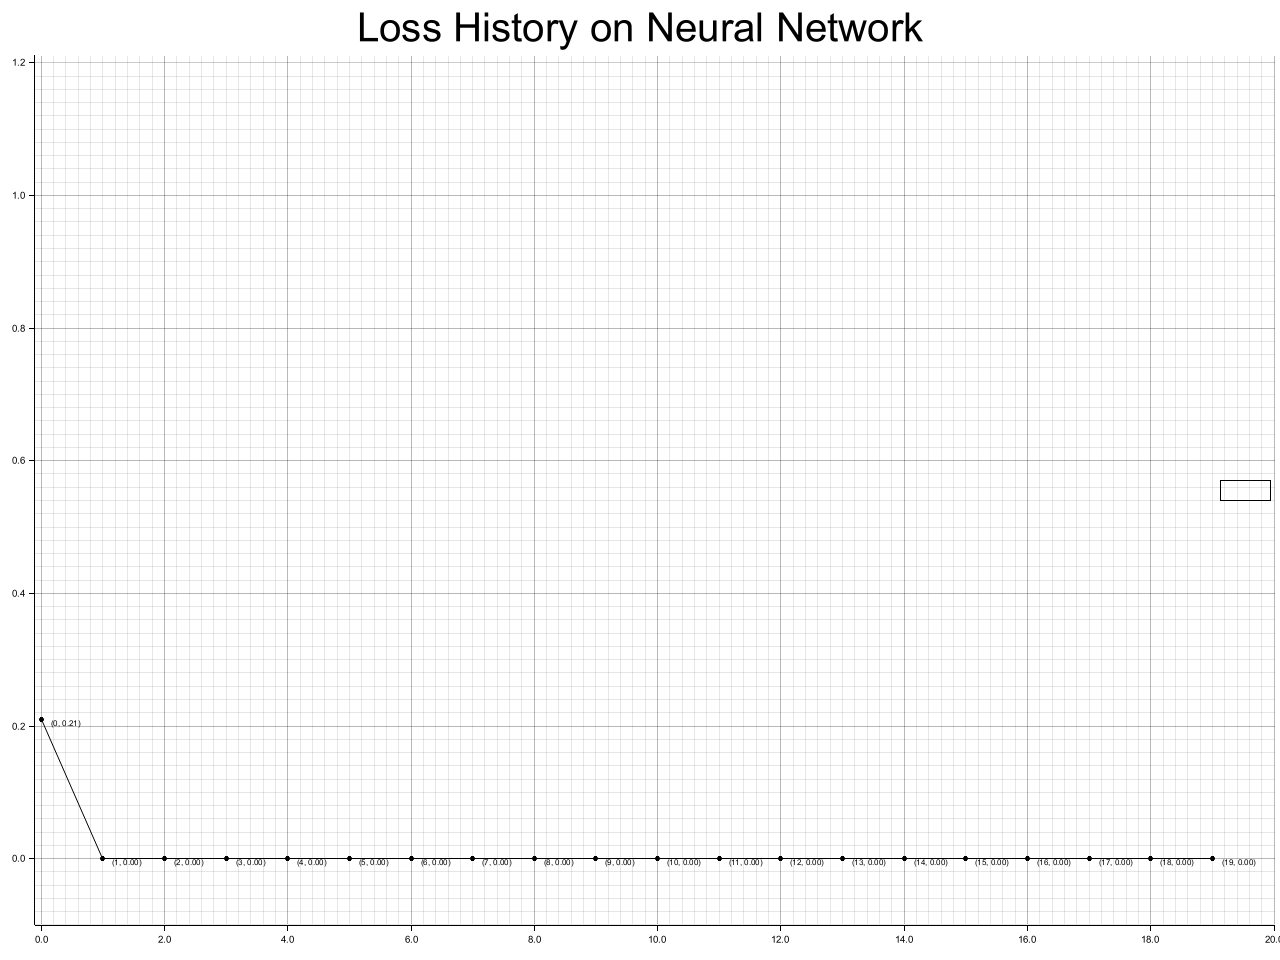
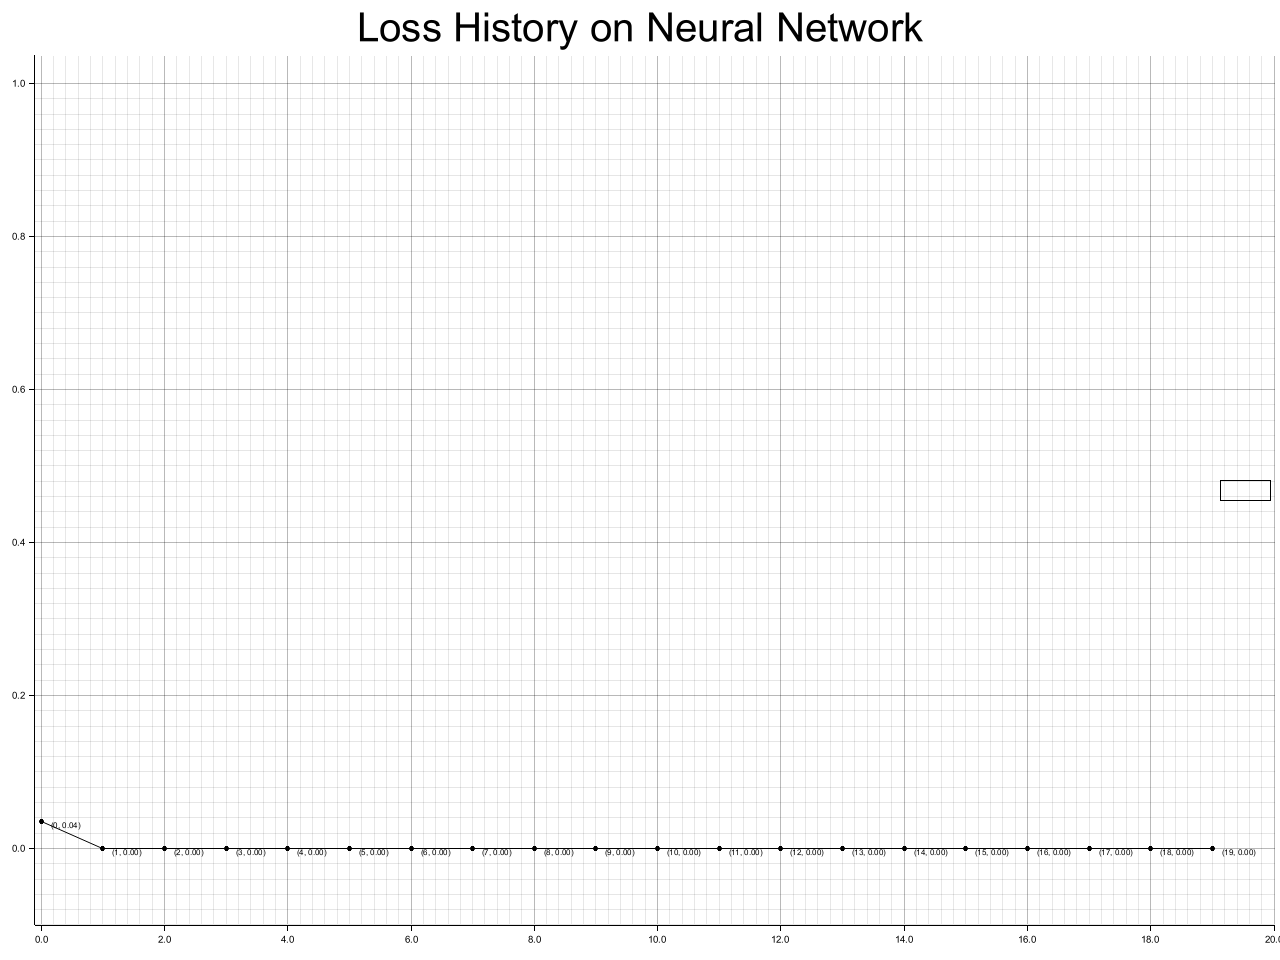
Implemented adam optimizer

diff --git a/src/network/layer/dense.rs b/src/network/layer/dense.rs
@@ -19,7 +19,12 @@ pub struct Dense{
     beta1: f32,
     beta2: f32,
     epsilon: f32,
-    time: usize
+    time: usize,
+
+    m_weights: Matrix,
+    v_weights: Matrix,
+    m_biases: Matrix,
+    v_biases: Matrix
 }
 
 impl Dense{
@@ -28,6 +33,13 @@ impl Dense{
             loss: 1.0,
             weights: Matrix::new_random(layer_cols_before, layers),
             biases: Matrix::new_random(layer_cols_before, 1),
+
+            m_weights: Matrix::new_empty(layer_cols_before, layers),
+            v_weights: Matrix::new_empty(layer_cols_before, layers),
+
+            m_biases: Matrix::new_empty(layer_cols_before, 1),
+            v_biases: Matrix::new_empty(layer_cols_before, 1),
+
             data: Matrix::new_random(0, 0),
             activation_fn: activation,
             learning_rate,
@@ -38,6 +50,7 @@ impl Dense{
         };
         (res.beta1, res.beta2) = res.get_betas();
         res.epsilon = res.get_epsilon();
+
         res
     }
     fn get_betas(&self) -> (f32, f32){
@@ -67,7 +80,7 @@ impl Layer for Dense{
     fn backward(&mut self, gradients: Box<dyn Input>, errors: Box<dyn Input>, data: Box<dyn Input>) -> Box<dyn Input> {
         let mut gradients_mat = Matrix::from(gradients.to_param_2d());
         let mut errors_mat = Matrix::from(errors.to_param_2d());
-        let mut data_mat = Matrix::from(data.to_param_2d());
+        let data_mat = Matrix::from(data.to_param_2d());
 
         gradients_mat = gradients_mat.dot_multiply(&errors_mat) * self.learning_rate;
         errors_mat = self.weights.clone().transpose() * &errors_mat;
@@ -79,9 +92,27 @@ impl Layer for Dense{
 
         self.loss = self.loss / errors_mat.to_param().len() as f32;
 
-        //println!("{}x{} {}x{}", self.weights.rows, self.weights.columns, data.to_param_2d()[0].len(), data.to_param_2d().len());
-        self.biases = self.biases.clone() + &gradients_mat.clone();
-        self.weights = self.weights.clone() + &(gradients_mat.clone() * (&data_mat.transpose()));
+        self.time += 1;
+
+        let weight_gradient = gradients_mat.clone() * &(data_mat.clone().transpose());
+
+        self.m_weights = self.m_weights.clone() * self.beta1 + &(weight_gradient.clone() * (1.0 - self.beta1));
+        self.v_weights = self.v_weights.clone() * self.beta2 + &((weight_gradient^2) * (1.0 - self.beta2));
+
+        self.m_biases = self.m_biases.clone() * self.beta1 + &(gradients_mat.clone() * (1.0 - self.beta1));
+        self.v_biases = self.v_biases.clone() * self.beta2 + &((gradients_mat.clone()^2) * (1.0 - self.beta2));
+
+        let m_weights_hat = self.m_weights.clone() / (1.0 - self.beta1.powi(self.time as i32));
+        let v_weights_hat = self.v_weights.clone() / (1.0 - self.beta2.powi(self.time as i32));
+
+        let m_bias_hat = self.m_biases.clone() / (1.0 - self.beta1.powi(self.time as i32));
+        let v_bias_hat = self.v_biases.clone() / (1.0 - self.beta2.powi(self.time as i32));
+
+        let weights_update = m_weights_hat.clone() / &(v_weights_hat.sqrt() + self.epsilon);
+        let bias_update = m_bias_hat.clone() / &(v_bias_hat.sqrt() + self.epsilon);
+
+        self.biases = self.biases.clone() + &bias_update;
+        self.weights = self.weights.clone() + &weights_update;
 
         Box::new(errors_mat)
     }

diff --git a/src/network/network.rs b/src/network/network.rs
@@ -146,7 +146,7 @@ impl Network{
     ///compared to what is actually derived during back propegation
     ///* `epochs` - How many epochs you want your model training for
     ///
-    pub fn fit(&mut self, train_in: Vec<Vec<f32>>, train_out: Vec<Vec<f32>>, epochs: usize){
+    pub fn fit(&mut self, train_in: &Vec<Vec<f32>>, train_out: &Vec<Vec<f32>>, epochs: usize){
         let mut input_batch: Box<dyn Input>;
         let mut output_batch: Box<dyn Input>;
 
@@ -179,10 +179,7 @@ impl Network{
             
         }
         self.loss = self.loss_train[self.loss_train.len()-1];
-        println!("Trained to a loss of {:.2}%", self.loss * 100.0);
-        for i in 0..self.layers.len()-1{
-            println!("Error on layer {}: +/- {:.2}", i+1, self.layers[i].get_loss());
-        }
+        
     }
 
     fn get_batch(&self, inputs: &Vec<Vec<f32>>, idx: usize) -> Box<dyn Input> {
@@ -213,44 +210,18 @@ impl Network{
         let net: Network = from_str(&buffer).expect("Json was not formatted well >:(");
         net
     }
+
+    pub fn fit_to_loss(&mut self, train_in: Vec<Vec<f32>>, train_out: Vec<Vec<f32>>, desired_loss: f32, steps_per: usize) -> usize{
+        let mut epochs_total = 0;
+        while self.loss > desired_loss{
+            self.fit(&train_in, &train_out, steps_per);
+            epochs_total += steps_per;
+            
+        }
+        println!("Trained to a loss of {:.2}%", self.loss * 100.0);
+        for i in 0..self.layers.len()-1{
+            println!("Error on layer {}: +/- {:.2}", i+1, self.layers[i].get_loss());
+        }
+        epochs_total
+    }
 }
-
-/*#[typetag::serde]
-impl Layer for Network{
-
-    fn forward(&mut self,inputs: &Box<dyn Input>) -> Box<dyn Input> {
-        Box::new(self.feed_forward(inputs))
-    }
-
-    fn backward(&mut self,inputs: &Matrix,gradients: &Matrix,errors: &Matrix,layer_prev: &Matrix,layer_prev_bias: &Matrix) -> (Matrix,Matrix,Matrix,Matrix) {
-        self.implicit_back_propegation(inputs.clone(), gradients.clone(), errors.clone())
-    }
-
-    fn shape(&self) -> (usize,usize,usize) {
-        self.layers[0].shape()
-    }
-    fn set_weights(&mut self,new_weights:Matrix) {
-        self.layers[0].set_weights(new_weights)
-    }
-    fn set_bias(&mut self,new_bias:Matrix) {
-        self.layers[0].set_bias(new_bias)
-    }
-    fn get_cols(&self) -> usize {
-        self.layers[self.layers.len() - 1].get_cols()
-    }
-    fn get_rows(&self) -> usize {
-        self.layers[self.layers.len() - 1].get_rows()
-    }
-    fn get_bias(&self) -> Matrix {
-        self.layers[0].get_bias()
-    }
-    fn get_loss(&self) -> f32 {
-        self.loss
-    }
-    fn get_weights(&self) -> Matrix {
-        self.layers[0].get_weights()
-    }
-    fn get_activation(&self) -> Option<super::activations::Activations> {
-        self.layers[0].get_activation()
-    }
-}*/

diff --git a/src/network/matrix.rs b/src/network/matrix.rs
@@ -80,6 +80,19 @@ impl ops::Mul<f32> for Matrix {
     }
 }
 
+impl ops::BitXor<i32> for Matrix{
+    type Output = Matrix;
+    fn bitxor(self, rhs: i32) -> Self::Output {
+        let mut res: Matrix = Matrix::new_empty(self.rows, self.columns);
+        for i in 0..self.rows{
+            for j in 0..self.columns{
+                res.data[i][j] = self.data[i][j].powi(rhs);
+            }
+        }
+        res
+    }
+}
+
 impl ops::Div<f32> for Matrix {
     type Output = Matrix;
     fn div(self, rhs: f32) -> Self::Output {
@@ -93,9 +106,22 @@ impl ops::Div<f32> for Matrix {
     }
 }
 
-impl ops::Div<Matrix> for &Matrix{
+impl ops::Add<f32> for Matrix {
     type Output = Matrix;
-    fn div(self, rhs: Matrix) -> Self::Output {
+    fn add(self, rhs: f32) -> Self::Output {
+        let mut res: Matrix = Matrix::new_empty(self.rows, self.columns);
+        for i in 0..self.rows{
+            for j in 0..self.columns{
+                res.data[i][j] = self.data[i][j] + rhs;
+            }
+        }
+        res
+    }
+}
+
+impl ops::Div<&Matrix> for Matrix{
+    type Output = Matrix;
+    fn div(self, rhs: &Matrix) -> Self::Output {
         let mut res: Matrix = Matrix::new_empty(self.rows, self.columns);
         for i in 0..self.rows{
             for j in 0..self.columns{

diff --git a/src/main.rs b/src/main.rs
@@ -11,21 +11,18 @@ fn main() -> Result<(), Box<dyn Error>> {
 
     new_net.add_layer(LayerTypes::DENSE(2, Activations::SIGMOID, 0.1));
     new_net.add_layer(LayerTypes::DENSE(3, Activations::SIGMOID, 0.1));
-    new_net.add_layer(LayerTypes::DENSE(4, Activations::TANH, 0.1));
-    new_net.add_layer(LayerTypes::DENSE(2, Activations::SIGMOID, 0.1));
-    new_net.add_layer(LayerTypes::DENSE(3, Activations::SIGMOID, 0.1));
     new_net.add_layer(LayerTypes::DENSE(1, Activations::SIGMOID, 0.1));
 
     new_net.compile();
 
-    new_net.fit(inputs, outputs, 20);
+    new_net.fit(&inputs, &outputs, 20);
 
     //let mut new_net = Network::load("best_network.json");
     println!("1 and 0: {:?}", new_net.predict(vec![1.0,0.0])[0]);
     println!("0 and 1: {:?}", new_net.predict(vec![0.0,1.0])[0]);
     println!("1 and 1: {:?}", new_net.predict(vec![1.0,1.0])[0]);
     println!("0 and 0: {:?}", new_net.predict(vec![0.0,0.0])[0]);
-   
+
     new_net.save("best_network.json");
     new_net.plot_layer_loss("loss_graph_per_layer.png")?;
     new_net.plot_loss_history("loss_history.png")?;
